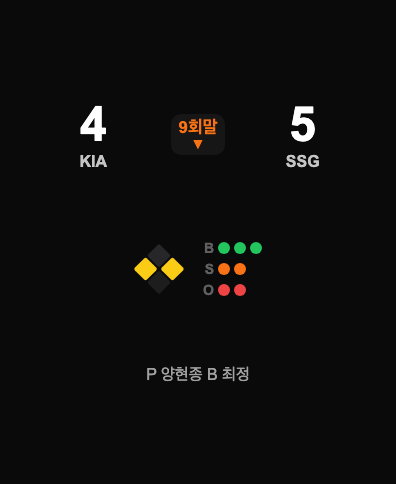
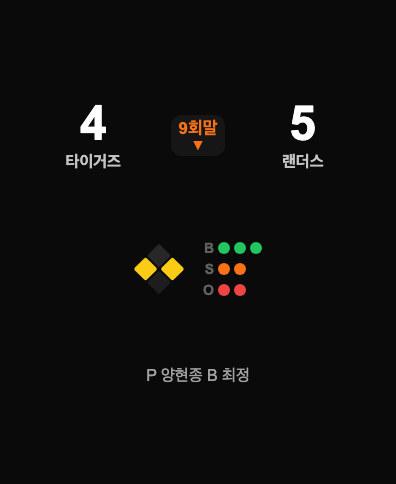
수정 중

diff --git a/screenshots/src/components/EventOverlayBadge.tsx b/screenshots/src/components/EventOverlayBadge.tsx
@@ -1,0 +1,54 @@
+import React from "react";
+import { colors, SCALE } from "../theme";
+
+const s = SCALE;
+
+type EventConfig = {
+  label: string;
+  icon: string;
+  color: string;
+};
+
+const eventMap: Record<string, EventConfig> = {
+  HIT: { label: "HIT", icon: "⚡", color: colors.green500 },
+  WALK: { label: "WALK", icon: "⚡", color: colors.green400 },
+  STEAL: { label: "STEAL", icon: "⚡", color: "rgb(6, 182, 212)" },
+  SCORE: { label: "SCORE", icon: "🏆", color: colors.yellow500 },
+  HOMERUN: { label: "HOMERUN", icon: "🏆", color: colors.yellow500 },
+  OUT: { label: "OUT", icon: "✕", color: colors.red500 },
+  DOUBLE_PLAY: { label: "DOUBLE PLAY", icon: "✕", color: colors.orange500 },
+  TRIPLE_PLAY: { label: "TRIPLE PLAY", icon: "✕", color: colors.red600 },
+};
+
+export const EventOverlayBadge: React.FC<{ eventType: string }> = ({
+  eventType,
+}) => {
+  const config = eventMap[eventType.toUpperCase()];
+  if (!config) return null;
+
+  return (
+    <div
+      style={{
+        display: "flex",
+        flexDirection: "column",
+        alignItems: "center",
+        gap: 6 * s,
+        padding: `${14 * s}px ${24 * s}px`,
+        background: "rgba(0,0,0,0.85)",
+        borderRadius: 16 * s,
+      }}
+    >
+      <span style={{ fontSize: 28 * s, color: config.color }}>{config.icon}</span>
+      <span
+        style={{
+          fontSize: 14 * s,
+          fontWeight: 500,
+          color: "white",
+          fontFamily: '-apple-system, "SF Pro Display", sans-serif',
+        }}
+      >
+        {config.label}
+      </span>
+    </div>
+  );
+};

diff --git a/screenshots/src/components/LiveGameWithOverlay.tsx b/screenshots/src/components/LiveGameWithOverlay.tsx
@@ -1,0 +1,27 @@
+import React from "react";
+import { LiveGameScreen } from "./LiveGameScreen";
+import { EventOverlayBadge } from "./EventOverlayBadge";
+import type { GameData } from "../types";
+
+export const LiveGameWithOverlay: React.FC<{
+  data: GameData;
+  eventType: string;
+}> = ({ data, eventType }) => (
+  <div style={{ width: "100%", height: "100%", position: "relative" }}>
+    <LiveGameScreen data={data} />
+    <div
+      style={{
+        position: "absolute",
+        top: 0,
+        left: 0,
+        width: "100%",
+        height: "100%",
+        display: "flex",
+        alignItems: "center",
+        justifyContent: "center",
+      }}
+    >
+      <EventOverlayBadge eventType={eventType} />
+    </div>
+  </div>
+);

diff --git a/screenshots/src/compositions/Screenshot2_HomeRun.tsx b/screenshots/src/compositions/Screenshot2_HomeRun.tsx
@@ -1,4 +1,22 @@
 import React from "react";
-import { HomeRunScreen } from "../components/HomeRunScreen";
+import { LiveGameWithOverlay } from "../components/LiveGameWithOverlay";
 
-export const Screenshot2_HomeRun: React.FC = () => <HomeRunScreen />;
+/** 경기 화면 + SCORE 득점 오버레이 배지 */
+export const Screenshot2_HomeRun: React.FC = () => (
+  <LiveGameWithOverlay
+    data={{
+      awayTeam: "베어스",
+      homeTeam: "트윈스",
+      awayScore: 3,
+      homeScore: 6,
+      inning: "7회말",
+      ballCount: 1,
+      strikeCount: 0,
+      outCount: 1,
+      bases: { first: false, second: true, third: false },
+      pitcher: "곽빈",
+      batter: "오스틴",
+    }}
+    eventType="SCORE"
+  />
+);

diff --git a/screenshots/src/compositions/Screenshot3_Hit.tsx b/screenshots/src/compositions/Screenshot3_Hit.tsx
@@ -1,4 +1,22 @@
 import React from "react";
-import { HitScreen } from "../components/HitScreen";
+import { LiveGameWithOverlay } from "../components/LiveGameWithOverlay";
 
-export const Screenshot3_Hit: React.FC = () => <HitScreen />;
+/** 경기 화면 + OUT 아웃 오버레이 배지 */
+export const Screenshot3_Hit: React.FC = () => (
+  <LiveGameWithOverlay
+    data={{
+      awayTeam: "라이온즈",
+      homeTeam: "타이거즈",
+      awayScore: 2,
+      homeScore: 3,
+      inning: "5회초",
+      ballCount: 2,
+      strikeCount: 2,
+      outCount: 2,
+      bases: { first: true, second: false, third: false },
+      pitcher: "양현종",
+      batter: "구자욱",
+    }}
+    eventType="OUT"
+  />
+);

diff --git a/screenshots/src/compositions/Screenshot6_Score.tsx b/screenshots/src/compositions/Screenshot6_Score.tsx
@@ -1,4 +1,21 @@
 import React from "react";
-import { ScoreScreen } from "../components/ScoreScreen";
+import { LiveGameScreen } from "../components/LiveGameScreen";
 
-export const Screenshot6_Score: React.FC = () => <ScoreScreen />;
+/** 다른 팀/이닝의 경기 화면 */
+export const Screenshot6_Score: React.FC = () => (
+  <LiveGameScreen
+    data={{
+      awayTeam: "다이노스",
+      homeTeam: "자이언츠",
+      awayScore: 1,
+      homeScore: 0,
+      inning: "3회초",
+      ballCount: 0,
+      strikeCount: 1,
+      outCount: 0,
+      bases: { first: false, second: false, third: false },
+      pitcher: "박세웅",
+      batter: "손아섭",
+    }}
+  />
+);

diff --git a/ios/mobile/BaseHaptic/Data/AuthManager.swift b/ios/mobile/BaseHaptic/Data/AuthManager.swift
@@ -98,6 +98,7 @@ class AuthManager: ObservableObject {
 
     func signOut() async throws {
         try await client.auth.signOut()
+        authState = .loggedOut
     }
 
     func deleteAccount() async throws {
@@ -117,7 +118,9 @@ class AuthManager: ObservableObject {
             throw URLError(.badServerResponse)
         }
 
-        try await client.auth.signOut()
+        // 유저가 이미 삭제되었으므로 signOut 실패해도 무시
+        try? await client.auth.signOut()
+        authState = .loggedOut
 
         // 로컬 데이터 초기화
         UserDefaults.standard.removeObject(forKey: "selected_team")

diff --git a/apps/mobile/app/src/main/java/com/basehaptic/mobile/auth/AuthManager.kt b/apps/mobile/app/src/main/java/com/basehaptic/mobile/auth/AuthManager.kt
@@ -78,7 +78,9 @@ object AuthManager {
         }
 
         if (result) {
-            supabase.auth.signOut()
+            // 유저가 이미 삭제되었으므로 signOut 실패해도 무시
+            try { supabase.auth.signOut() } catch (_: Exception) {}
+            _authState.value = AuthState.LoggedOut
             context.getSharedPreferences("basehaptic_user_prefs", Context.MODE_PRIVATE)
                 .edit().clear().apply()
         }

diff --git a/screenshots/src/compositions/Screenshot4_Victory.tsx b/screenshots/src/compositions/Screenshot4_Victory.tsx
@@ -1,4 +1,5 @@
 import React from "react";
-import { VictoryScreen } from "../components/VictoryScreen";
+import { HomeRunScreen } from "../components/HomeRunScreen";
 
-export const Screenshot4_Victory: React.FC = () => <VictoryScreen />;
+/** 펭귄 홈런 애니메이션 (실제 앱 기능) */
+export const Screenshot4_Victory: React.FC = () => <HomeRunScreen />;

diff --git a/screenshots/src/compositions/Screenshot1_LiveScore.tsx b/screenshots/src/compositions/Screenshot1_LiveScore.tsx
@@ -4,8 +4,8 @@ import { LiveGameScreen } from "../components/LiveGameScreen";
 export const Screenshot1_LiveScore: React.FC = () => (
   <LiveGameScreen
     data={{
-      awayTeam: "KIA",
-      homeTeam: "SSG",
+      awayTeam: "타이거즈",
+      homeTeam: "랜더스",
       awayScore: 4,
       homeScore: 5,
       inning: "9회말",

diff --git a/screenshots/src/compositions/Screenshot5_SyncPrompt.tsx b/screenshots/src/compositions/Screenshot5_SyncPrompt.tsx
@@ -2,5 +2,5 @@ import React from "react";
 import { SyncPromptScreen } from "../components/SyncPromptScreen";
 
 export const Screenshot5_SyncPrompt: React.FC = () => (
-  <SyncPromptScreen awayTeam="KIA" homeTeam="SSG" />
+  <SyncPromptScreen awayTeam="타이거즈" homeTeam="랜더스" />
 );

diff --git a/backend/api/app/main.py b/backend/api/app/main.py
@@ -308,7 +308,7 @@ async def delete_account(
             },
         )
 
-    if resp.status_code >= 400:
+    if resp.status_code >= 400 and resp.status_code != 404:
         logger.error("supabase delete user failed: status=%s body=%s", resp.status_code, resp.text)
         raise HTTPException(status_code=502, detail="failed to delete account")
 
